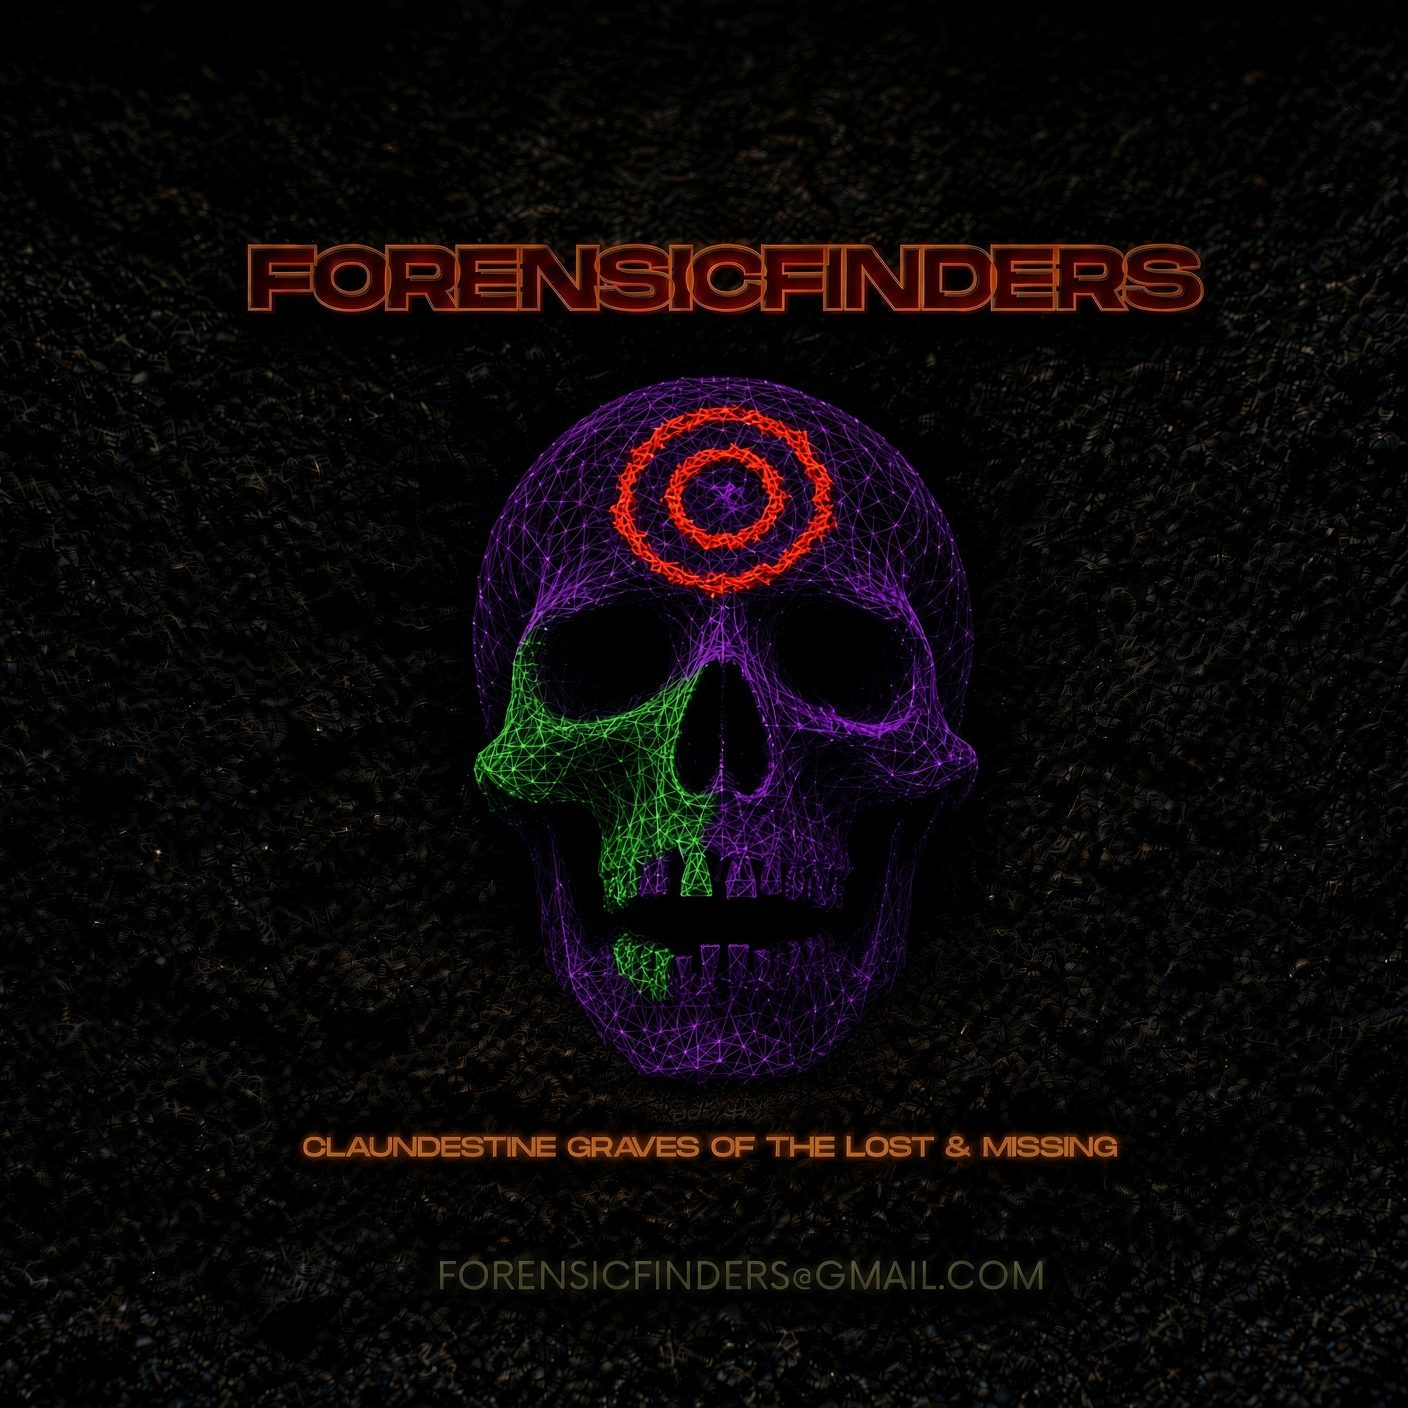
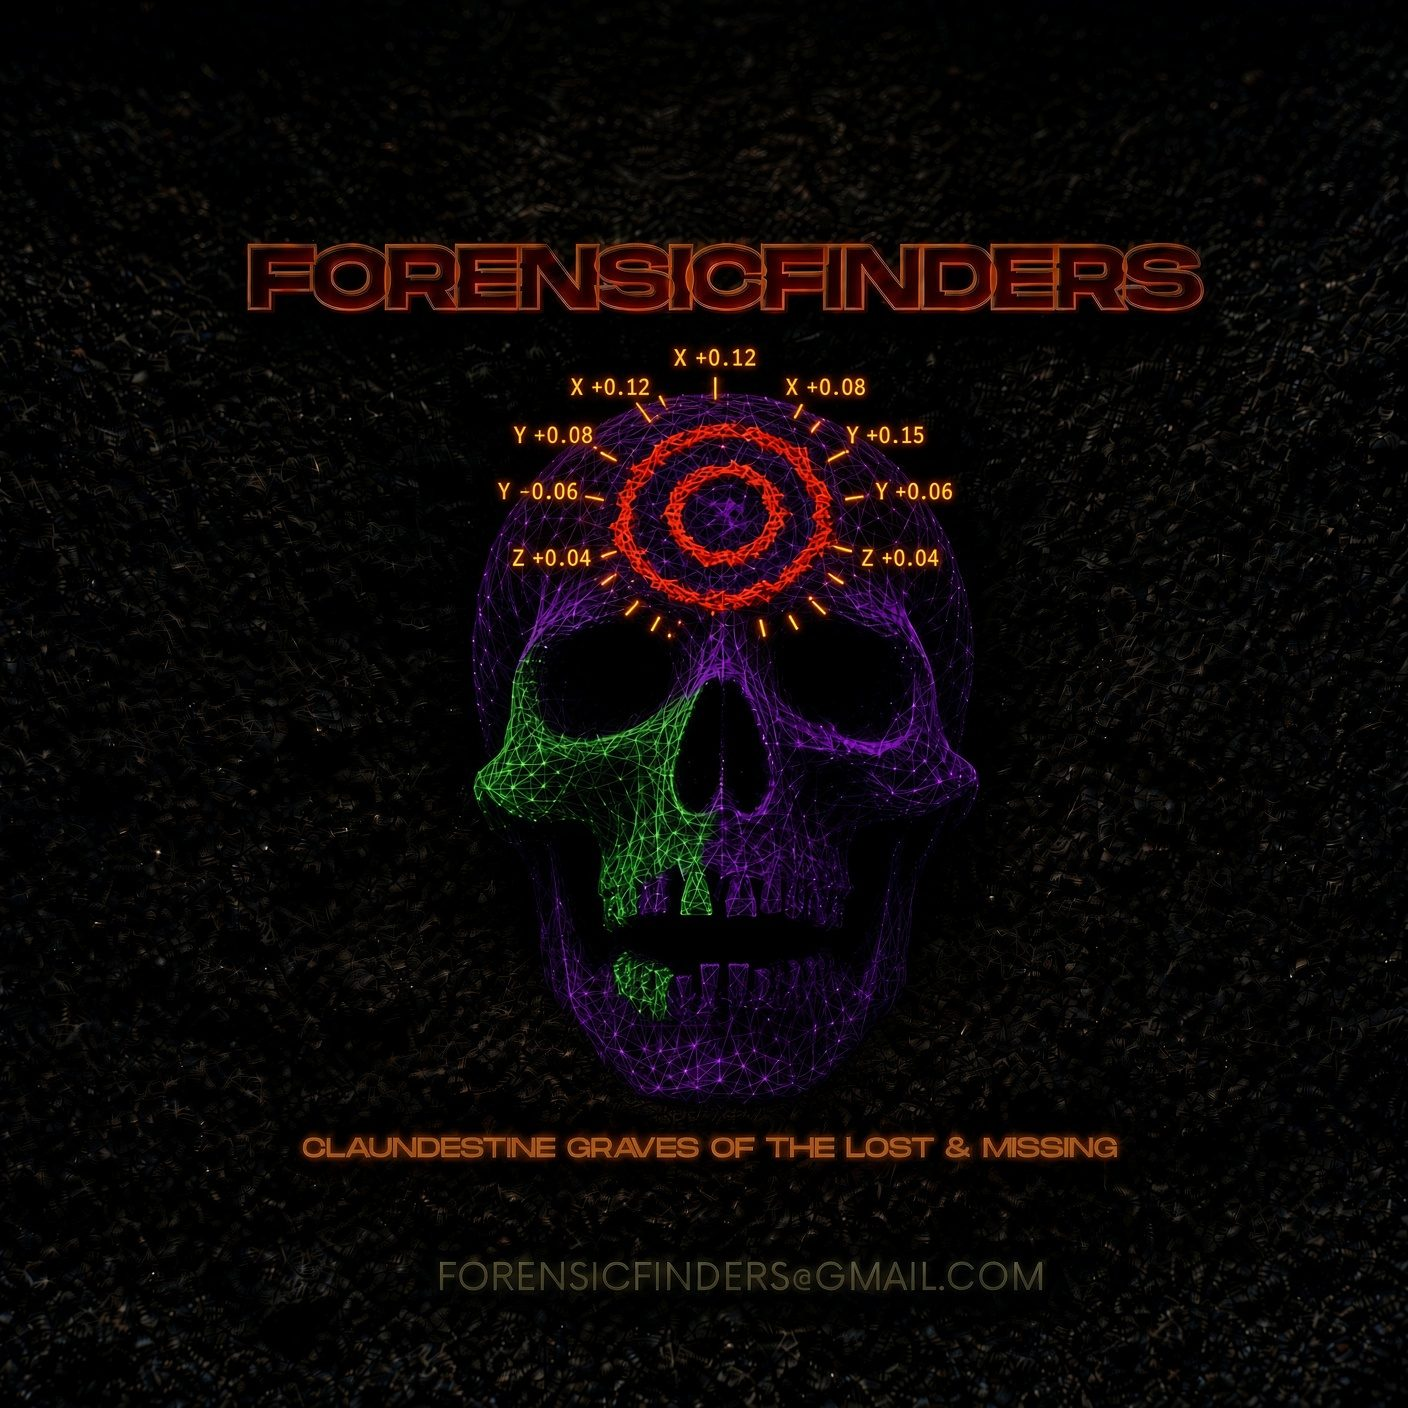
Add a local coordinate frame around the forehead mesh.

diff --git a/src/routes/__root.tsx b/src/routes/__root.tsx
@@ -19,7 +19,7 @@ export const Route = createRootRoute({
       { name: "theme-color", content: "#07090c" },
     ],
     links: [
-      { rel: "icon", type: "image/jpeg", href: "/brand/mesh-bullseye.jpg?v=8" },
+      { rel: "icon", type: "image/jpeg", href: "/brand/mesh-frame.jpg?v=9" },
       { rel: "stylesheet", href: appCss },
       { rel: "manifest", href: "/__grok/manifest.webmanifest" },
       { rel: "apple-touch-icon", href: "/__grok/icon-180.png" },

diff --git a/src/components/workbench.tsx b/src/components/workbench.tsx
@@ -214,7 +214,7 @@ export function Workbench() {
         <header className="hero">
           <h1 className="sr-only">Forensic finders</h1>
           <img
-            src="/brand/mesh-bullseye.jpg?v=8"
+            src="/brand/mesh-frame.jpg?v=9"
             alt="Forensicfinders mark. A skull in false color under the name. Illustration, not a burial."
           />
           <p className="hero-case">
